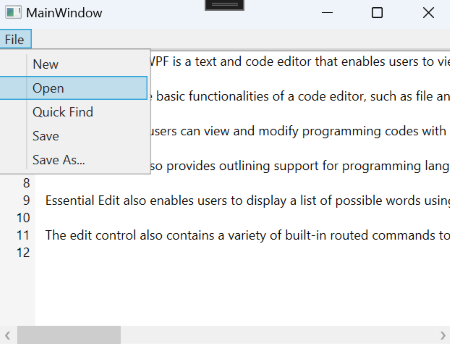
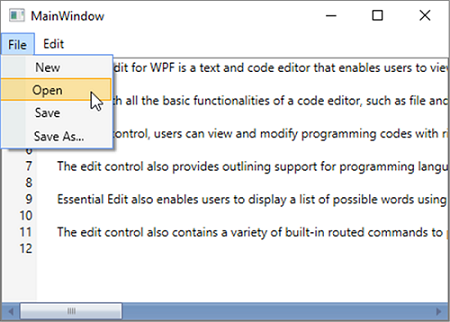
Modified the example codes.

diff --git a/wpf/Syntax-Editor/Edit-Commands.md b/wpf/Syntax-Editor/Edit-Commands.md
@@ -15,28 +15,29 @@ Essential edit for WPF contains built-in RoutedUICommands for all editing and fi
 
 {% highlight XAML %}
 
-<Menu BorderBrush="LightGray" BorderThickness="0,0,1,2" Grid.ColumnSpan="1">
-
-<MenuItem Header="_File" Background="Transparent" Width="{Binding}" >
-
-<MenuItem Command="{x:Static sfedit:EditCommands.New}" CommandTarget="{Binding ElementName=Edit1}"/>
-
-<MenuItem Command="{x:Static sfedit:EditCommands.Open}" CommandTarget="{Binding ElementName=Edit1}"/>
-
-<MenuItem Command="{x:Static sfedit:EditCommands.Find}" CommandTarget="{Binding ElementName=Edit1}"/>
-
-<MenuItem Command="{x:Static sfedit:EditCommands.Save}" CommandTarget="{Binding ElementName=Edit1}"/>
-
-<MenuItem Command="{x:Static sfedit:EditCommands.SaveAs}" CommandTarget="{Binding ElementName=Edit1}"/>
-
-</MenuItem>
-
+<StackPanel Grid.ColumnSpan="1" Orientation="Horizontal">
+    <Menu Background="Transparent" BorderThickness="0,0,1,2">
+        <MenuItem Header="_File" Background="Transparent" Width="{Binding}" >      
+        <MenuItem Command="{x:Static sfedit:EditCommands.New}" CommandTarget="{Binding ElementName=Edit1}"/>
+        <MenuItem Command="{x:Static sfedit:EditCommands.Open}" CommandTarget="{Binding ElementName=Edit1}"/>
+        <MenuItem Command="{x:Static sfedit:EditCommands.Find}" CommandTarget="{Binding ElementName=Edit1}"/>
+        <MenuItem Command="{x:Static sfedit:EditCommands.Save}" CommandTarget="{Binding ElementName=Edit1}"/>
+        <MenuItem Command="{x:Static sfedit:EditCommands.SaveAs}" CommandTarget="{Binding ElementName=Edit1}"/>
+    </MenuItem>
 </Menu>
+    <Menu Background="Transparent" BorderThickness="0,0,1,2">
+        <MenuItem Header="_Edit" Background="Transparent" Width="{Binding}" >
+            <MenuItem Command="{x:Static sfedit:EditCommands.Copy}" CommandTarget="{Binding ElementName=Edit1}"/>
+            <MenuItem Command="{x:Static sfedit:EditCommands.Cut}" CommandTarget="{Binding ElementName=Edit1}"/>
+            <MenuItem Command="{x:Static sfedit:EditCommands.Find}" CommandTarget="{Binding ElementName=Edit1}"/>
+            <MenuItem Command="{x:Static sfedit:EditCommands.Paste}" CommandTarget="{Binding ElementName=Edit1}"/>
+            <MenuItem Command="{x:Static sfedit:EditCommands.Undo}" CommandTarget="{Binding ElementName=Edit1}"/>
+        </MenuItem>
+    </Menu>
+</StackPanel>
 
 <Border BorderThickness="1" BorderBrush="Gray"  Grid.Row="1" Grid.ColumnSpan="2">
-
-<sfedit:EditControl Name="Edit1" EnableOutlining="False" Background="white" AllowDrop="True" BorderBrush="Black" BorderThickness="0" Margin="0" DocumentSource="C:\Content.txt" ShowLineNumber="True" Grid.Row="1" />
-
+    <sfedit:EditControl Name="Edit1" EnableOutlining="False" Background="white" AllowDrop="True" BorderBrush="Black" BorderThickness="0" Margin="0" DocumentSource="C:\Content.txt" ShowLineNumber="True" Grid.Row="1" />
 </Border>
 
 
